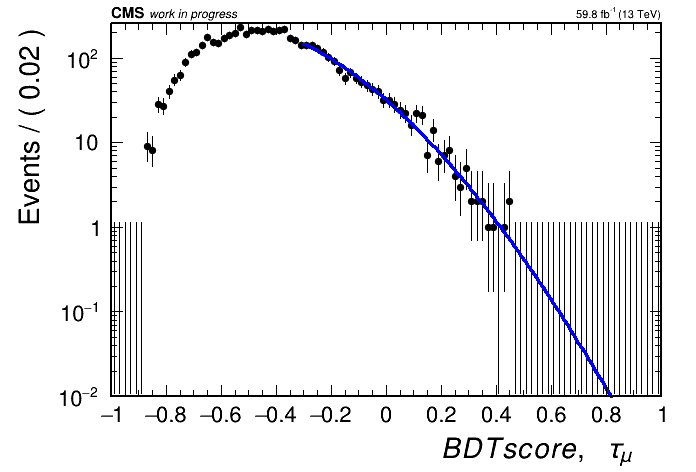
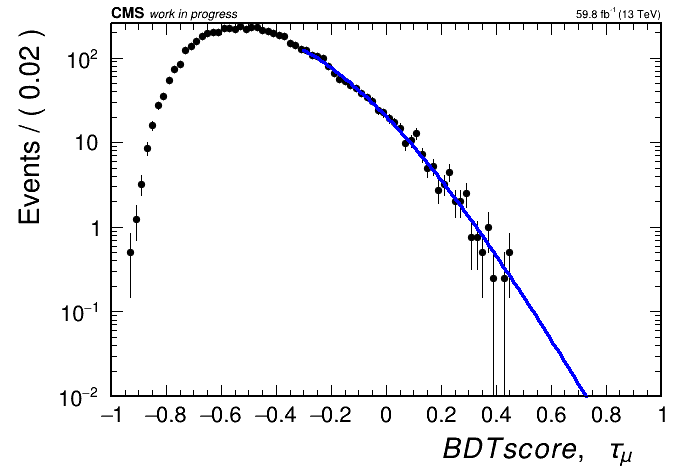
change signal fit range for ZTT projections

diff --git a/makeYield/ZTT/makeCards.py b/makeYield/ZTT/makeCards.py
@@ -151,7 +151,7 @@ class makeCards:
                 
                 # For fitting BDT Output in Signal
 
-                self.MCSelector = RooFormulaVar('MCSelector', 'MCSelector', phivetoes+' isMC !=0 & (isMC == 211 | isMC == 210231 | isMC == 210232 | isMC == 210233 ) & (tripletMass>=%s & tripletMass<=%s) ' %(fit_range_lo,fit_range_hi) , RooArgList(variables))
+                self.MCSelector = RooFormulaVar('MCSelector', 'MCSelector', phivetoes+' isMC !=0 & (isMC == 211 | isMC == 210231 | isMC == 210232 | isMC == 210233 ) & (tripletMass>=%s & tripletMass<=%s) ' %(signal_range_lo,signal_range_hi) , RooArgList(variables))
                 
                 #signal always uses the normalized/final PF tree
                 self.fullmc_unweighted = RooDataSet('mc', 'mc', tree_norm, variables, self.MCSelector)
@@ -651,8 +651,8 @@ if __name__ == "__main__":
         # Enable batch mode
         ROOT.gROOT.SetBatch(True)
         
-        #categories = ['taue']
-        categories = ['taue','taumu','tauhA','tauhB','all']
+        categories = ['taumu']
+        #categories = ['taue','taumu','tauhA','tauhB','all']
         #categories = ['tauhA','tauhB','all']
         #categories = ['combined'] # Can only be run after the other 4 categories are read and copied
         
@@ -660,11 +660,11 @@ if __name__ == "__main__":
         
         datafile_main = "../../../../Combine_Tree_ztau3mutau_PF_PostBDT.root"#The final PF cuts I would prefer to use
         
-        #lumi = np.round(np.arange(100,4500,500), 0)
-        #lumi = np.insert(lumi, 0 , 59.8)
-        #lumi = np.append(lumi, 4500)
+        lumi = np.round(np.arange(100,4500,500), 0)
+        lumi = np.insert(lumi, 0 , 59.8)
+        lumi = np.append(lumi, 4500)
         
-        lumi = np.round([59.8,3000.0])
+        #lumi = np.round([59.8,3000.0])
         
         cmd1 = 'mkdir lumi_limit_scans;'
         os.system(cmd1)
@@ -674,7 +674,7 @@ if __name__ == "__main__":
         Cat_No = len(categories)
         
         #To create datacards
-        WhetherFitBDTandMakeCards = True
+        WhetherFitBDTandMakeCards = False
         
         for cat in range(Cat_No):
                 categ = categories[cat]
@@ -689,7 +689,7 @@ if __name__ == "__main__":
                 if(categ == 'taumu'):
                         analyzed_lumi = 59.83
                         datafile_for_norm = datafile_main
-                        datafile_for_shape = datafile_main
+                        datafile_for_shape = datafile_bdt_shape
                 if(categ == 'tauhA'):
                         analyzed_lumi = 59.83
                         datafile_for_norm = datafile_main
